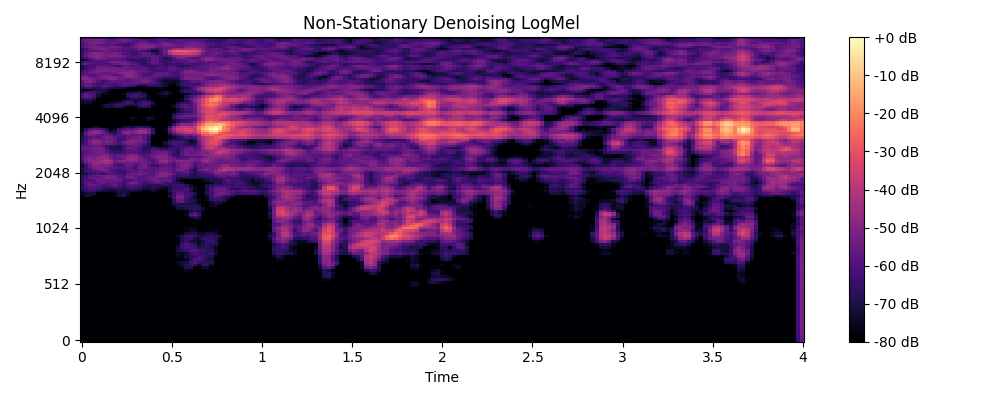
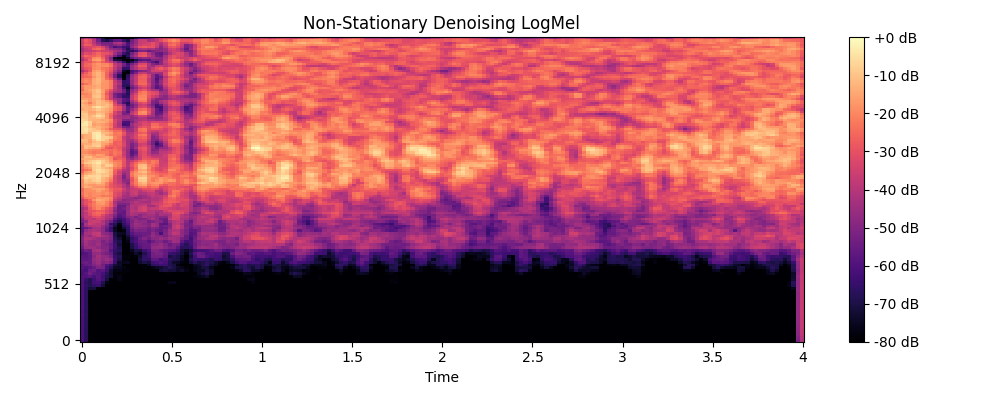
Stationary noise profile

diff --git a/experiments_comparison.py b/experiments_comparison.py
@@ -32,28 +32,31 @@ client = MlflowClient()
 
 # Experiment Definitions
 EXPERIMENTS_LIST = [
+
+    #CNN Simple
+    {"name": "CNN_Simple_Stationary", "model": "SimpleCNN", "process": "Stationary"},
     # CNN + MLP
-    {"name": "CNN_MLP_PCEN", "model": "CNN_MLP", "process": "PCEN"},
+    #{"name": "CNN_MLP_PCEN", "model": "CNN_MLP", "process": "PCEN"},
     {"name": "CNN_MLP_Stationary", "model": "CNN_MLP", "process": "Stationary"},
-    {"name": "CNN_MLP_NonStationary", "model": "CNN_MLP", "process": "NonStationary"},
+    #{"name": "CNN_MLP_NonStationary", "model": "CNN_MLP", "process": "NonStationary"},
 
     # CNN + Attention
-    {"name": "CNN_Attention_PCEN", "model": "CNN_Attention", "process": "PCEN"},
+    #{"name": "CNN_Attention_PCEN", "model": "CNN_Attention", "process": "PCEN"},
     {"name": "CNN_Attention_Stationary", "model": "CNN_Attention", "process": "Stationary"},
-    {"name": "CNN_Attention_NonStationary", "model": "CNN_Attention", "process": "NonStationary"},
+    #{"name": "CNN_Attention_NonStationary", "model": "CNN_Attention", "process": "NonStationary"},
     
     # VGG
-    {"name": "VGG_PCEN", "model": "VGG", "process": "PCEN"},
+    #{"name": "VGG_PCEN", "model": "VGG", "process": "PCEN"},
     {"name": "VGG_Stationary", "model": "VGG", "process": "Stationary"},
-    {"name": "VGG_NonStationary", "model": "VGG", "process": "NonStationary"},
+    #{"name": "VGG_NonStationary", "model": "VGG", "process": "NonStationary"},
 
     # AST
-    {"name": "AST_AFSC_ResCNN", "model": "AST_AFSC_ResCNN", "process": "Bandpass_LogMel", 
-     "extra_args": {"ast_weights": r"C:\Users\Thana\dev\cnn_comparison\AST\audioset_10_10_0.4593 (1).pth"}}
+    #{"name": "AST_AFSC_ResCNN", "model": "AST_AFSC_ResCNN", "process": "Bandpass_LogMel", 
+    #"extra_args": {"ast_weights": r"C:\Users\Thana\dev\cnn_comparison\AST\audioset_10_10_0.4593 (1).pth"}}
 ]
 
 # Override the global experiment name for this suite
-COMPARISON_EXPERIMENT_NAME = "Model_Comparison_Study"
+COMPARISON_EXPERIMENT_NAME = "Stationary_Tank_Test_NoiseProfile"
 
 def run_comparison():
     try:

diff --git a/src/audio_processing.py b/src/audio_processing.py
@@ -1,10 +1,11 @@
+import os
 import numpy as np
 import librosa
-from typing import List
+from typing import List, Optional
 import noisereduce as nr
 import scipy.signal
 from scipy.signal import butter, lfilter
-from .config import SAMPLE_RATE, DURATION, WINDOW_SIZE, STRIDE, N_MELS, HOP_LENGTH
+from .config import SAMPLE_RATE, DURATION, WINDOW_SIZE, STRIDE, N_MELS, HOP_LENGTH, NOISE_PROFILE_PATH
 
 def apply_band_pass_filter(y: np.ndarray, sr: int, low_cutoff: int, high_cutoff: int) -> np.ndarray:
     """Applies a band-pass ButterWorth filter."""
@@ -44,9 +45,23 @@ def denoise_audio_nonstationary(y: np.ndarray, sr: int) -> np.ndarray:
     """Applies noise reduction (Placeholder for noisereduce library)."""
     return nr.reduce_noise(y=y, sr=sr , stationary=False)
 
-def denoise_audio_stationary(y: np.ndarray, sr: int) -> np.ndarray:
-    """Applies noise reduction (Placeholder for noisereduce library)."""
-    return nr.reduce_noise(y=y, sr=sr, stationary=True)
+def denoise_audio_stationary(y: np.ndarray, sr: int, use_noise_profile: bool = False) -> np.ndarray:
+    """Applies stationary noise reduction.
+    
+    Args:
+        y: Input audio signal.
+        sr: Sample rate.
+        use_noise_profile: If True, uses the reference noise recording
+            (TANK_SOUND_PWM1500_Iter5.wav) as a noise profile for more
+            accurate noise estimation. If False, noisereduce estimates
+            the noise from the signal itself.
+    """
+    if use_noise_profile:
+        noise_path = os.path.join(os.path.dirname(os.path.dirname(__file__)), NOISE_PROFILE_PATH)
+        y_noise, _ = librosa.load(noise_path, sr=sr)
+        return nr.reduce_noise(y=y, sr=sr, y_noise=y_noise, stationary=True)
+    else:
+        return nr.reduce_noise(y=y, sr=sr, stationary=True)
 
 def segment_audio(y: np.ndarray, sr: int, window_size: float, stride: float) -> List[np.ndarray]:
     """

diff --git a/src/config.py b/src/config.py
@@ -14,10 +14,12 @@ N_FOLDS = 5
 CLASSES = ['healthy', 'imbalance', 'fouling', 'seaweed']
 DEVICE = torch.device("cuda" if torch.cuda.is_available() else "cpu")
 TRACKING_URI = "http://localhost:5000" # Prod
-EXPERIMENT_NAME = "Bandpass_Augmented_4_Exp_2"
+EXPERIMENT_NAME = "Model_Comparison_Study_Stationary_Tank_Test"
 ARTIFACT_PATH = "mlartifacts"
-DATAFOLDER = "~/notebooks/propeller_audio_records/raw_train_data"
+#DATAFOLDER = "~/notebooks/propeller_audio_records/raw_train_data"
+DATAFOLDER = "~/notebooks/propeller_audio_records/tank_test_data"#
 LOW_PASS_CUTOFF = 11000 # Hz
+NOISE_PROFILE_PATH = "sample_audio/TANK_SOUND_PWM1500_Iter5.wav"  # Reference noise profile for stationary denoising
 HIGH_PASS_CUTOFF = 2000 # Hz
 DROPOUT_RATE = 0.5
 

diff --git a/src/data_prep.py b/src/data_prep.py
@@ -108,7 +108,7 @@ def prepare_data_for_fold(df_meta, train_idx, val_idx, experiment_type, augment=
                 
                 # 2. Denoising (Based on Experiment Name Substrings)
                 if 'Stationary' in experiment_type and 'NonStationary' not in experiment_type:
-                     y = denoise_audio_stationary(y, SAMPLE_RATE)
+                     y = denoise_audio_stationary(y, SAMPLE_RATE, use_noise_profile=True)
                 elif 'NonStationary' in experiment_type:
                      y = denoise_audio_nonstationary(y, SAMPLE_RATE)
 

diff --git a/generate_spectrograms.py b/generate_spectrograms.py
@@ -8,7 +8,7 @@ from src.audio_processing import load_audio, apply_band_pass_filter, denoise_aud
 from src.config import SAMPLE_RATE, LOW_PASS_CUTOFF, HIGH_PASS_CUTOFF
 
 # File Path
-file_path = r"sample_audio\healthy_1800_121_raw.wav"
+file_path = r"sample_audio\HEALTHY_PWM1200_Iter5.wav"
 output_dir = r"spectrogram_samples"
 os.makedirs(output_dir, exist_ok=True)
 
